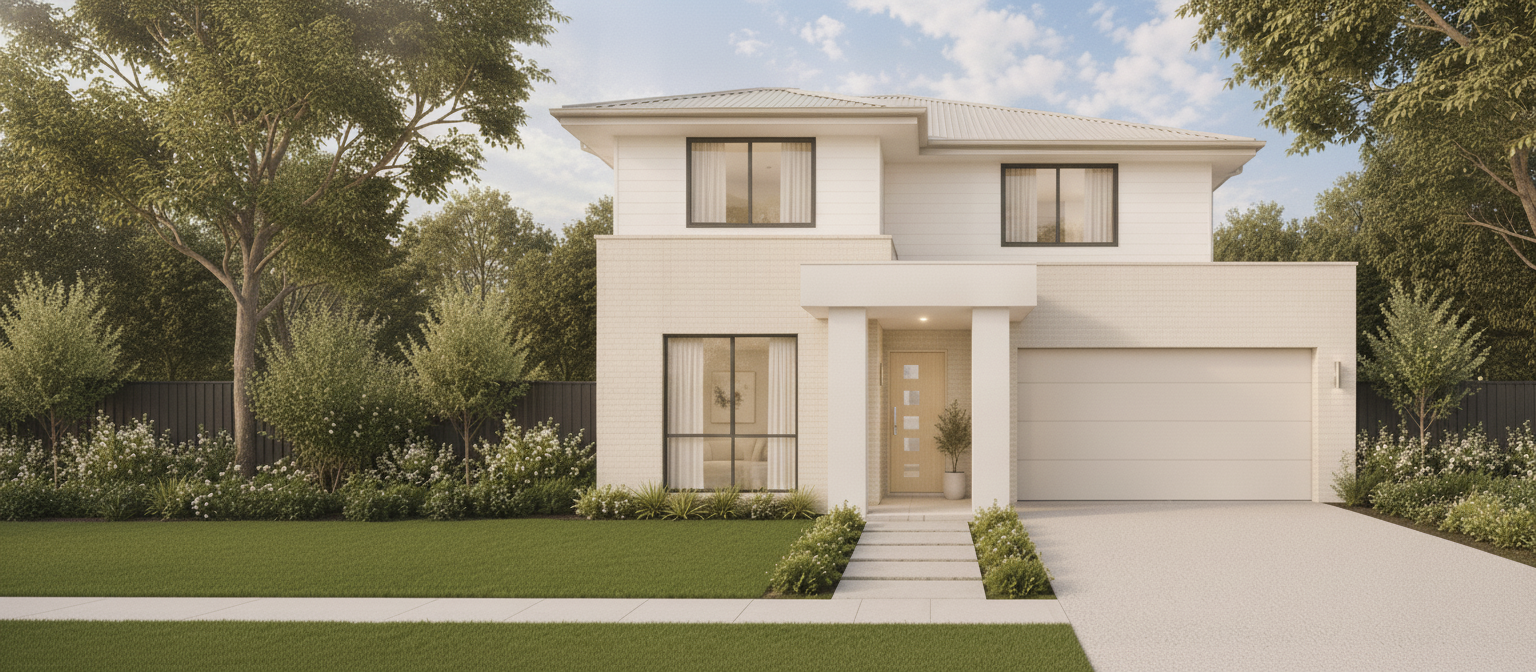
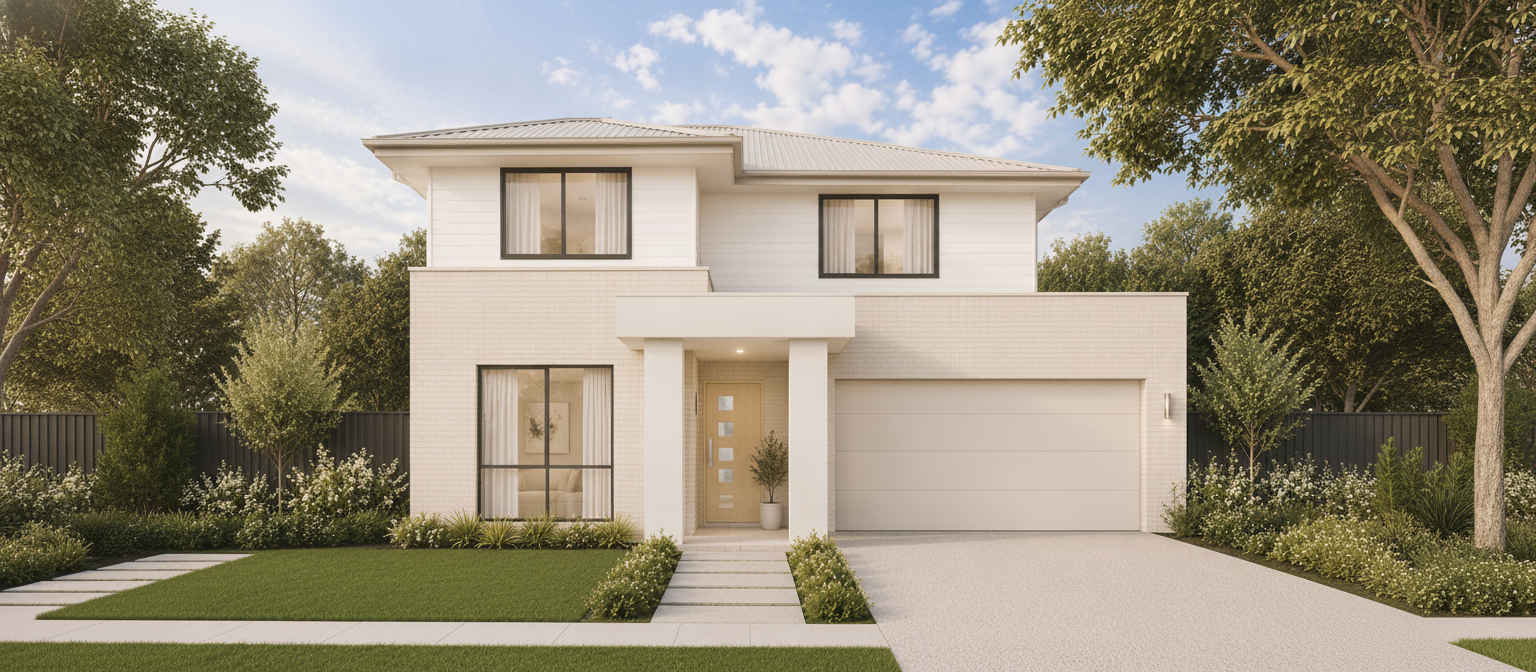
fix(quoting): center Classic Double Storey facade render in image frame

diff --git a/src/components/flyer/idbFacadeCache.ts b/src/components/flyer/idbFacadeCache.ts
@@ -5,7 +5,7 @@
  */
 
 const DB_NAME = "PropertyProFacadeCacheDB";
-const DB_VERSION = 10; // Upgraded to v10 to clear all old mirrored/blurred renders fresh
+const DB_VERSION = 11; // Upgraded to v11 to flush stale off-center renders fresh
 const STORE_NAME = "enhanced_facades";
 
 function openDB(): Promise<IDBDatabase> {
